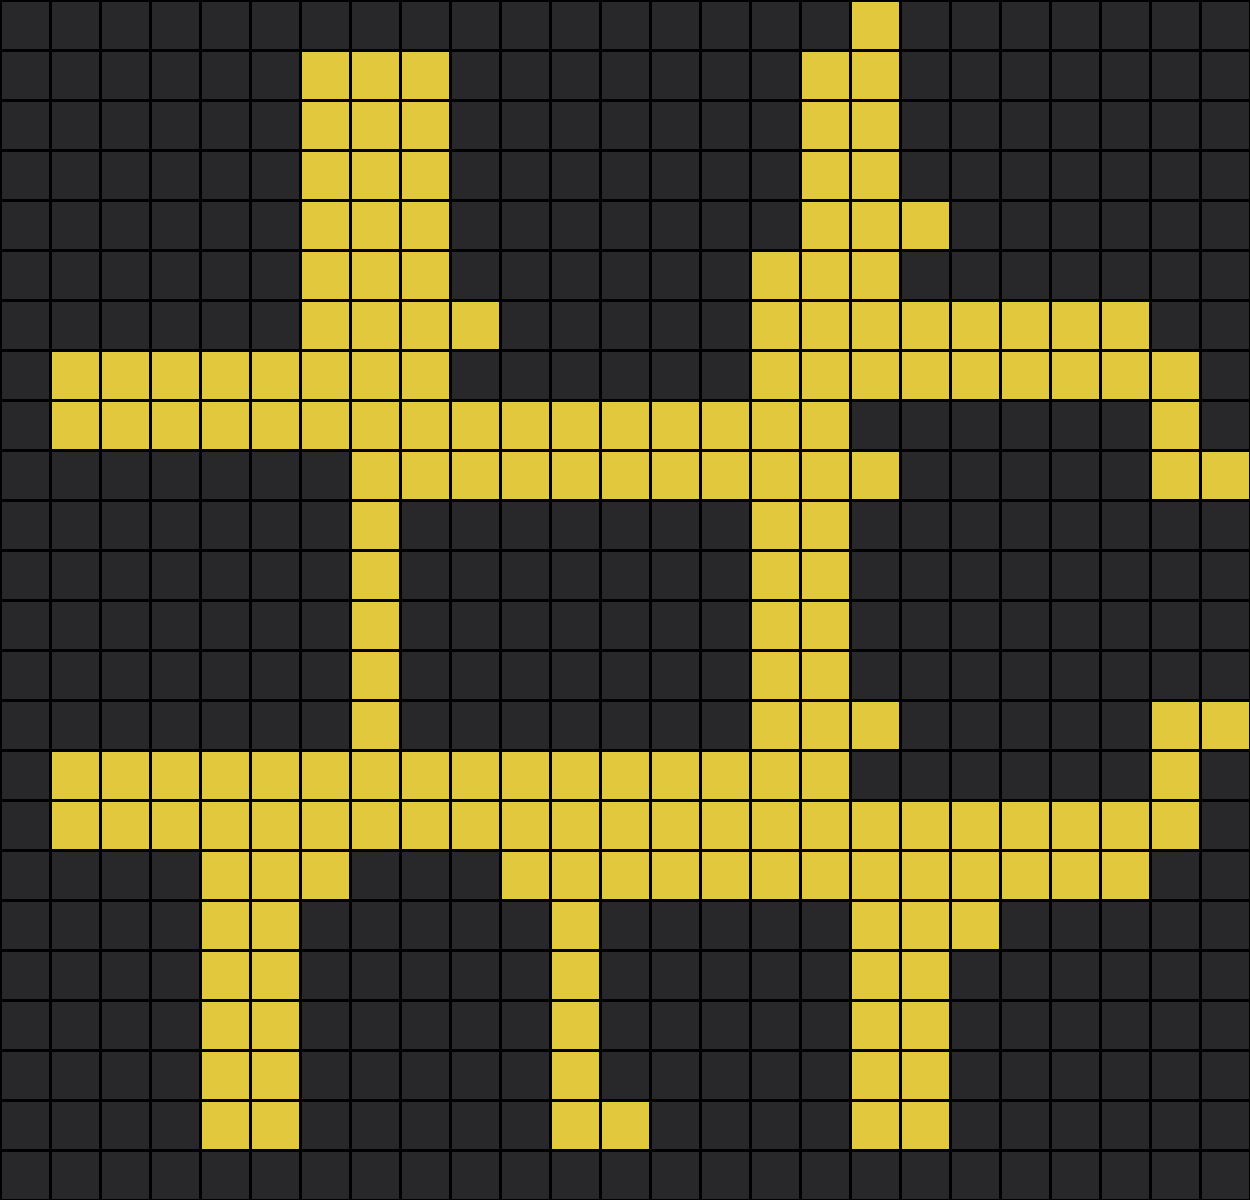
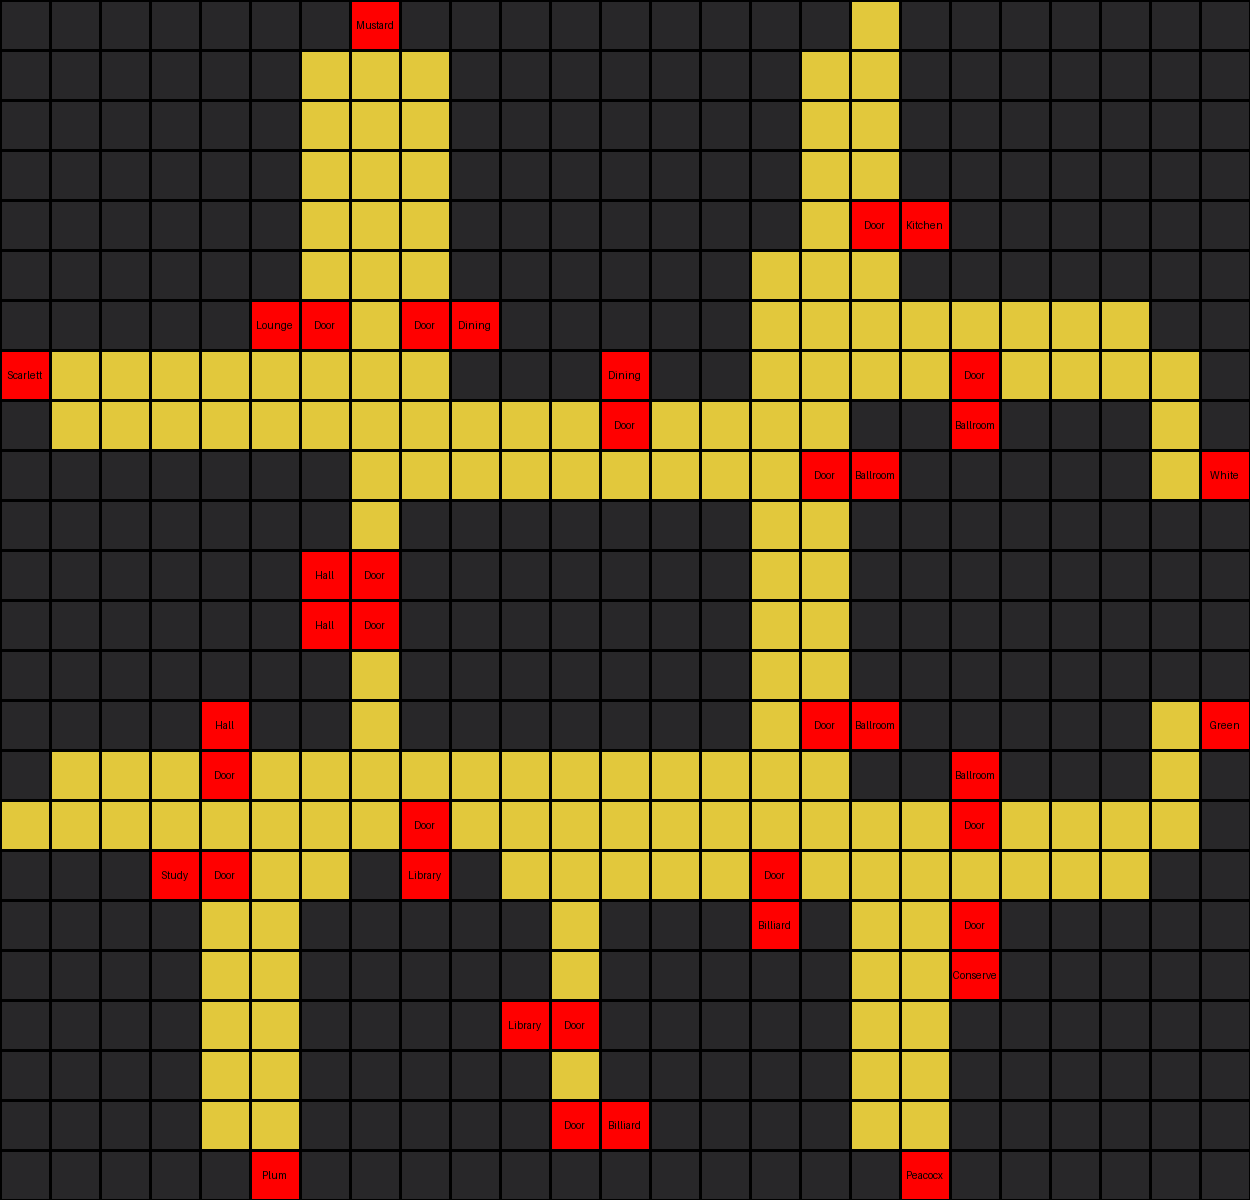
feat: board is drawn correctly

diff --git a/clue/clue_manual.py b/clue/clue_manual.py
@@ -49,44 +49,58 @@ def read_board(filename):
     with open(filename, "r") as f:
         board = []
         for line in f:
-            row = line.strip().split(",")
+            row = line.rstrip("\n").split(",")
             board.append(row)
     return board
 
 
 def draw_board(filename, board):
-    from PIL import Image, ImageDraw
+    """Creates an image of the board and saves it to a file with tile colors and optional text annotations."""
+    from PIL import Image, ImageDraw, ImageFont
+
+    def get_tile_color(tile):
+        """Returns the color corresponding to the tile type."""
+        tile_colors = {
+            "x": (40, 39, 41),  # walls are dark gray
+            " ": (226, 200, 60),  # floors are classic yellow
+        }
+        return tile_colors.get(tile, (255, 0, 0))  # use red for all other tiles
 
     cell_size = 50
     cell_border = 2
+    font_size = 12
 
-    width, height = len(board[0]), len(board)
+    width, height = len(board[0]) * cell_size, len(board) * cell_size
 
-    # Create a blank canvas
-    img = Image.new("RGBA", (width * cell_size, height * cell_size), "black")
+    img = Image.new("RGBA", (width, height), "black")
     draw = ImageDraw.Draw(img)
+    try:
+        # attempt to load a truetype or opentype font file
+        font = ImageFont.truetype("arial.ttf", font_size)
+    except IOError:
+        # fall back to a default font if unable to load
+        font = ImageFont.load_default()
 
     for i, row in enumerate(board):
         for j, tile in enumerate(row):
-            if tile == " ":
-                fill = (226, 200, 60)
-            elif tile == "x":
-                fill = (40, 39, 41)
-
-            draw.rectangle(
-                (
-                    [
-                        (j * cell_size + cell_border, i * cell_size + cell_border),
-                        (
-                            (j + 1) * cell_size - cell_border,
-                            (i + 1) * cell_size - cell_border,
-                        ),
-                    ]
-                ),
-                fill=fill,
+            fill = get_tile_color(tile)
+            top_left = (j * cell_size + cell_border, i * cell_size + cell_border)
+            bottom_right = (
+                (j + 1) * cell_size - cell_border,
+                (i + 1) * cell_size - cell_border,
             )
+            draw.rectangle([top_left, bottom_right], fill=fill)
+
+            # check if tile needs text
+            if tile not in ["x", " "]:  # floors and walls don't need text
+                text_position = (
+                    j * cell_size + cell_size // 2,
+                    i * cell_size + cell_size // 2,
+                )
+                draw.text(text_position, tile, font=font, anchor="mm", fill="black")
 
     img.save(filename)
+    print(f"Board drawn and saved as {filename}")
 
 
 if __name__ == "__main__":
